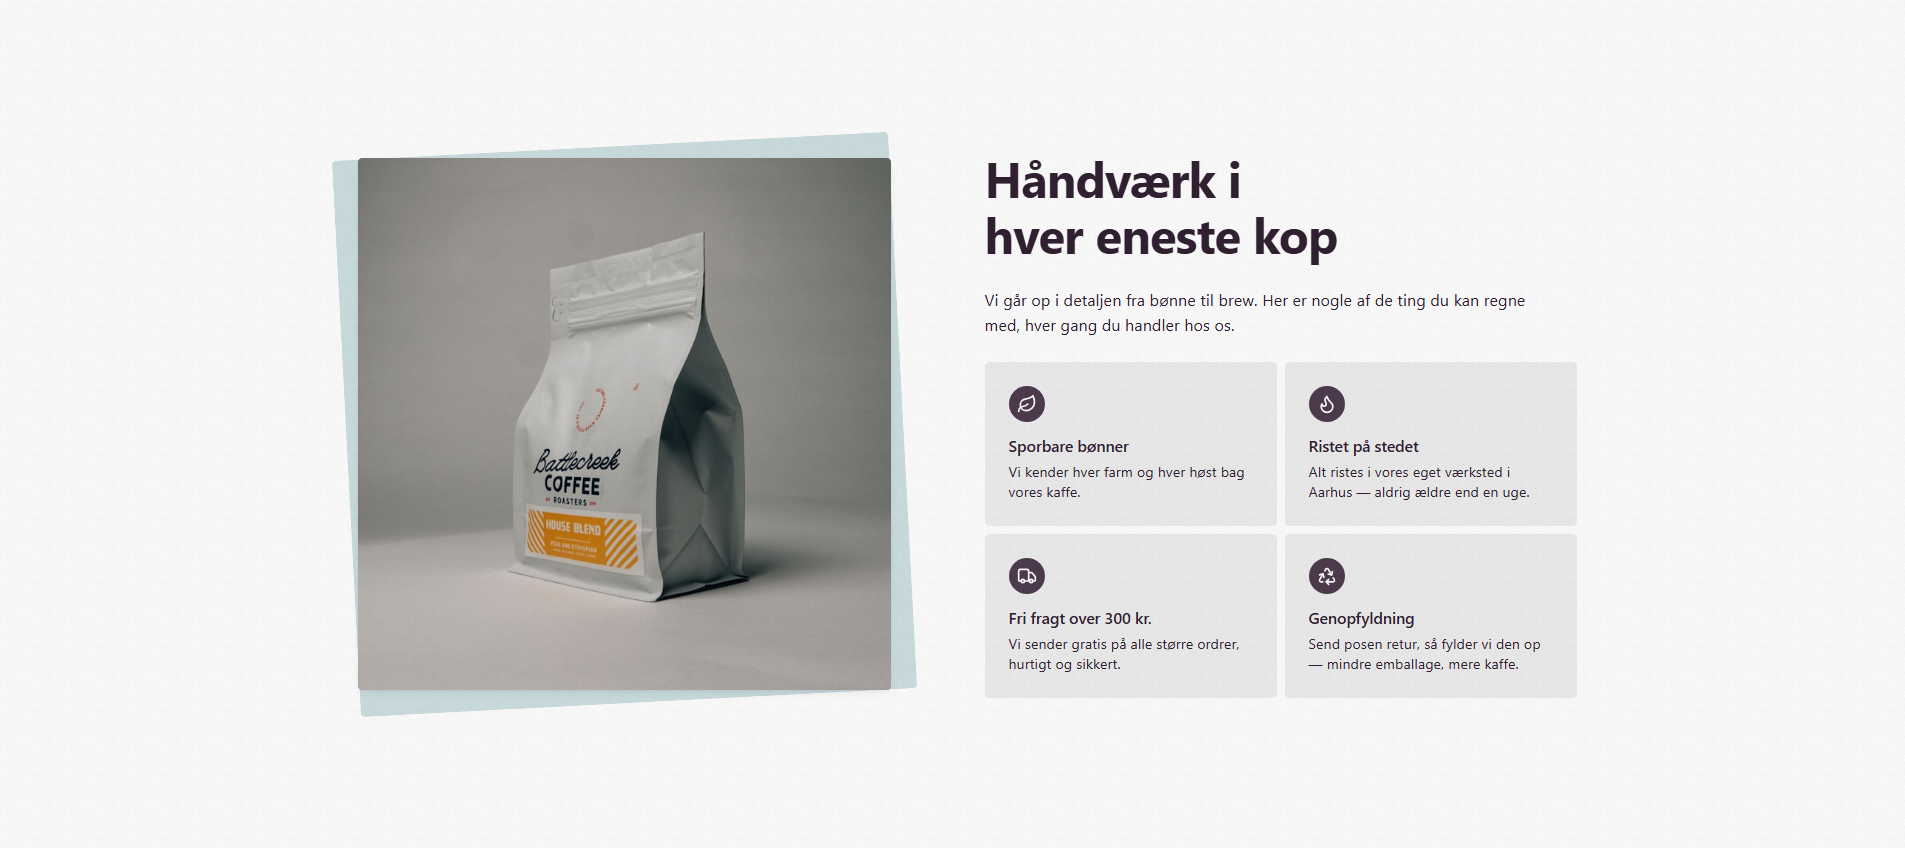
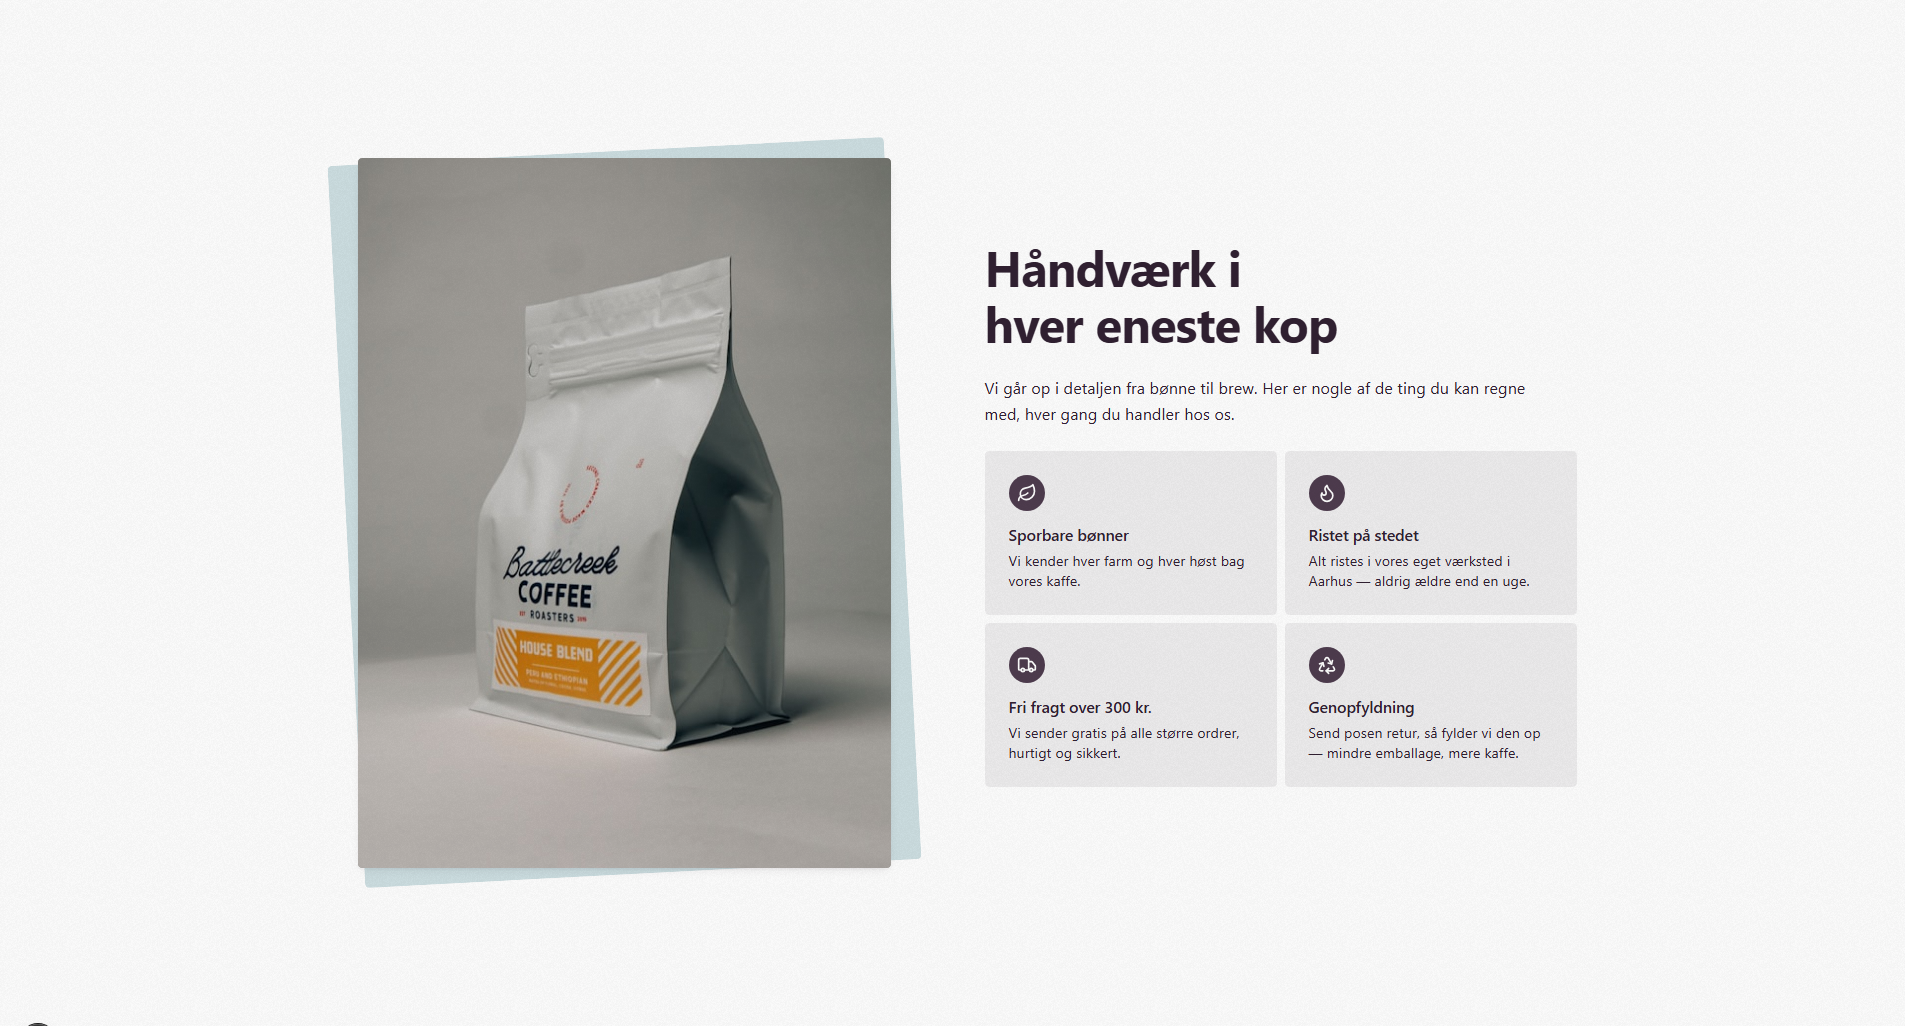
3:4

diff --git a/src/components/ui/EviBackdropImage.tsx b/src/components/ui/EviBackdropImage.tsx
@@ -1,5 +1,5 @@
 import { isFilled, type ImageField } from "@prismicio/client";
-import { EviImage } from "@/src/components/ui/EviImage";
+import { EviImage, type EviImageProps } from "@/src/components/ui/EviImage";
 import { cn } from "@/src/lib/utils/cn";
 import { resolve_surface } from "@/src/lib/utils/surface";
 
@@ -19,7 +19,7 @@ const formClass: Record<Exclude<BackdropForm, "none">, string> = {
 };
 
 export type EviBackdropImageProps = {
-  /** Billede (kvadratisk constraint anbefales). Tomt → intet render. */
+  /** Billede — brug samme constraint som `aspectRatio`. Tomt → intet render. */
   field: ImageField;
   /**
    * Separat mobil-billede (art direction, R9.8). Når udfyldt vises det < 768px
@@ -38,14 +38,20 @@ export type EviBackdropImageProps = {
   color?: string;
   /** Eager-load (LCP/hero-billede). @default false */
   priority?: boolean;
+  /**
+   * Billedforhold på desktop. `mobileField` overstyrer stadig mobil til 4:3.
+   * @default "square"
+   */
+  aspectRatio?: EviImageProps["aspectRatio"];
   className?: string;
 };
 
 /**
- * Kvadratisk billede med en valgfri dekorativ form bagved (roteret flap, blob,
- * cirkel …) → giver dybde. Formen er aria-hidden og holdes INDE i boksen via
- * proportional padding (% af bredden), så intet overflower. `backdrop="none"` →
- * bare det afrundede billede. `mobileField` → 4:3 på mobil.
+ * Billede (forhold via `aspectRatio`, default kvadratisk) med en valgfri dekorativ
+ * form bagved (roteret flap, blob, cirkel …) → giver dybde. Formen er aria-hidden
+ * og holdes INDE i boksen via proportional padding (% af bredden), så intet
+ * overflower. `backdrop="none"` → bare det afrundede billede. `mobileField` → 4:3
+ * på mobil.
  */
 export function EviBackdropImage({
   field,
@@ -53,6 +59,7 @@ export function EviBackdropImage({
   backdrop = "rotated",
   color = "Sekundær",
   priority = false,
+  aspectRatio = "square",
   className,
 }: EviBackdropImageProps): React.ReactElement | null {
   if (!isFilled.image(field)) return null;
@@ -63,7 +70,7 @@ export function EviBackdropImage({
     <EviImage
       field={field}
       mobileField={mobileField}
-      aspectRatio="square"
+      aspectRatio={aspectRatio}
       mobileAspectRatio={has_mobile ? "landscape" : undefined}
       variant="plain"
       imageClassName="object-cover"

diff --git a/src/components/ui/EviImage.tsx b/src/components/ui/EviImage.tsx
@@ -3,7 +3,7 @@ import { PrismicNextImage } from "@prismicio/next";
 import { force_jpg, jpg_srcset, lqip_url } from "@/src/lib/utils/imgix";
 import { cn } from "@/src/lib/utils/cn";
 
-type AspectRatio = "landscape" | "square" | "video" | "portrait" | "auto";
+type AspectRatio = "landscape" | "square" | "video" | "portrait" | "3:4" | "auto";
 
 /**
  * Visuel ramme:
@@ -73,6 +73,7 @@ const aspectClasses: Record<AspectRatio, string> = {
   square: "aspect-square",
   video: "aspect-video",
   portrait: "aspect-9/16",
+  "3:4": "aspect-3/4",
   auto: "aspect-auto",
 };
 
@@ -82,6 +83,7 @@ const mdAspectClasses: Record<AspectRatio, string> = {
   square: "md:aspect-square",
   video: "md:aspect-video",
   portrait: "md:aspect-9/16",
+  "3:4": "md:aspect-3/4",
   auto: "md:aspect-auto",
 };
 

diff --git a/prismicio-types.d.ts b/prismicio-types.d.ts
@@ -1266,7 +1266,7 @@ export interface FeaturesSliceSplitPrimary {
 	 * Billede field in *Features → Split → Primary*
 	 *
 	 * - **Field Type**: Image
-	 * - **Placeholder**: Firkantet billede (1:1)
+	 * - **Placeholder**: Stående billede (3:4)
 	 * - **API ID Path**: features.split.primary.image
 	 * - **Documentation**: https://prismic.io/docs/fields/image
 	 */

diff --git a/src/components/features/parts/FeaturesSplitLayout.tsx b/src/components/features/parts/FeaturesSplitLayout.tsx
@@ -70,6 +70,7 @@ export function FeaturesSplitLayout({
       field={p.image}
       backdrop={backdrop}
       color={p.backdrop_color}
+      aspectRatio="3:4"
       priority={isHero}
     />
   );
